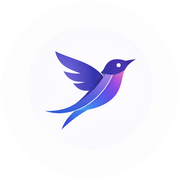
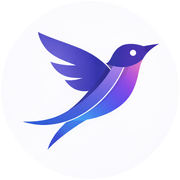
feat: faviconアイコンを拡大（1.8倍） - 拡大倍率を1.8倍に調整してアイコンを大きく表示 - キャッシュバスター更新（v=20251216_5）

Changed region(s): [[0.1111, 0.1667, 0.8889, 0.8333]]

diff --git a/front/app/layout.tsx b/front/app/layout.tsx
@@ -20,13 +20,13 @@ export const metadata: Metadata = {
   description: "AIとの対話を通じて英語を学習できるアプリケーション",
   icons: {
     icon: [
-      { url: "/favicon-16x16.png?v=20251216_2", sizes: "16x16", type: "image/png" },
-      { url: "/favicon-32x32.png?v=20251216_2", sizes: "32x32", type: "image/png" },
-      { url: "/favicon.ico?v=20251216_2", type: "image/x-icon" },
+      { url: "/favicon-16x16.png?v=20251216_5", sizes: "16x16", type: "image/png" },
+      { url: "/favicon-32x32.png?v=20251216_5", sizes: "32x32", type: "image/png" },
+      { url: "/favicon.ico?v=20251216_5", type: "image/x-icon" },
     ],
-    shortcut: "/favicon.ico?v=20251216_2",
+    shortcut: "/favicon.ico?v=20251216_5",
     apple: [
-      { url: "/apple-touch-icon.png?v=20251216_2", sizes: "180x180", type: "image/png" },
+      { url: "/apple-touch-icon.png?v=20251216_5", sizes: "180x180", type: "image/png" },
     ],
   },
 };

diff --git a/front/tools/generate_favicon.py b/front/tools/generate_favicon.py
@@ -50,7 +50,7 @@ def process_image(source_img, target_size, zoom_factor=1.2):
     Args:
         source_img: ソース画像（PIL Image）
         target_size: 出力サイズ
-        zoom_factor: 拡大倍率（1.15〜1.25の範囲）
+        zoom_factor: 拡大倍率（1.0以上、推奨: 1.2〜2.0）
     """
     # ソース画像のサイズを取得
     src_width, src_height = source_img.size
@@ -61,19 +61,21 @@ def process_image(source_img, target_size, zoom_factor=1.2):
     top = (src_height - min_size) // 2
     cropped = source_img.crop((left, top, left + min_size, top + min_size))
     
-    # 拡大（中心基準）
+    # 拡大（中心基準でクローズアップ）
+    # 拡大倍率が大きいほど、中心部分が大きく表示される
     zoomed_size = int(min_size * zoom_factor)
-    # 拡大後の画像を作成（中心からクロップ）
     zoomed = cropped.resize((zoomed_size, zoomed_size), Image.Resampling.LANCZOS)
     
-    # 元のサイズに戻す（中心部分をクロップ）
-    crop_left = (zoomed_size - min_size) // 2
-    crop_top = (zoomed_size - min_size) // 2
+    # 拡大した画像の中心部分をクロップ（元のサイズではなく、拡大後のサイズから）
+    # これにより、拡大の効果が保持される
+    crop_size = min_size  # 元のサイズを基準にクロップ
+    crop_left = (zoomed_size - crop_size) // 2
+    crop_top = (zoomed_size - crop_size) // 2
     zoomed_cropped = zoomed.crop((
         crop_left,
         crop_top,
-        crop_left + min_size,
-        crop_top + min_size
+        crop_left + crop_size,
+        crop_top + crop_size
     ))
     
     # ターゲットサイズにリサイズ
@@ -141,8 +143,10 @@ def main():
     # 出力ディレクトリの確認
     OUTPUT_DIR.mkdir(parents=True, exist_ok=True)
     
-    # 拡大倍率（1.15〜1.25の範囲で調整可能）
-    zoom_factor = 1.2
+    # 拡大倍率（1.0以上、推奨: 1.5〜2.0）
+    # アイコンを大きく表示するため、1.8倍に設定
+    # これにより、円形マスク内でアイコンがより大きく表示される
+    zoom_factor = 1.8
     
     # ICO 用の画像を保存
     ico_images = {}
